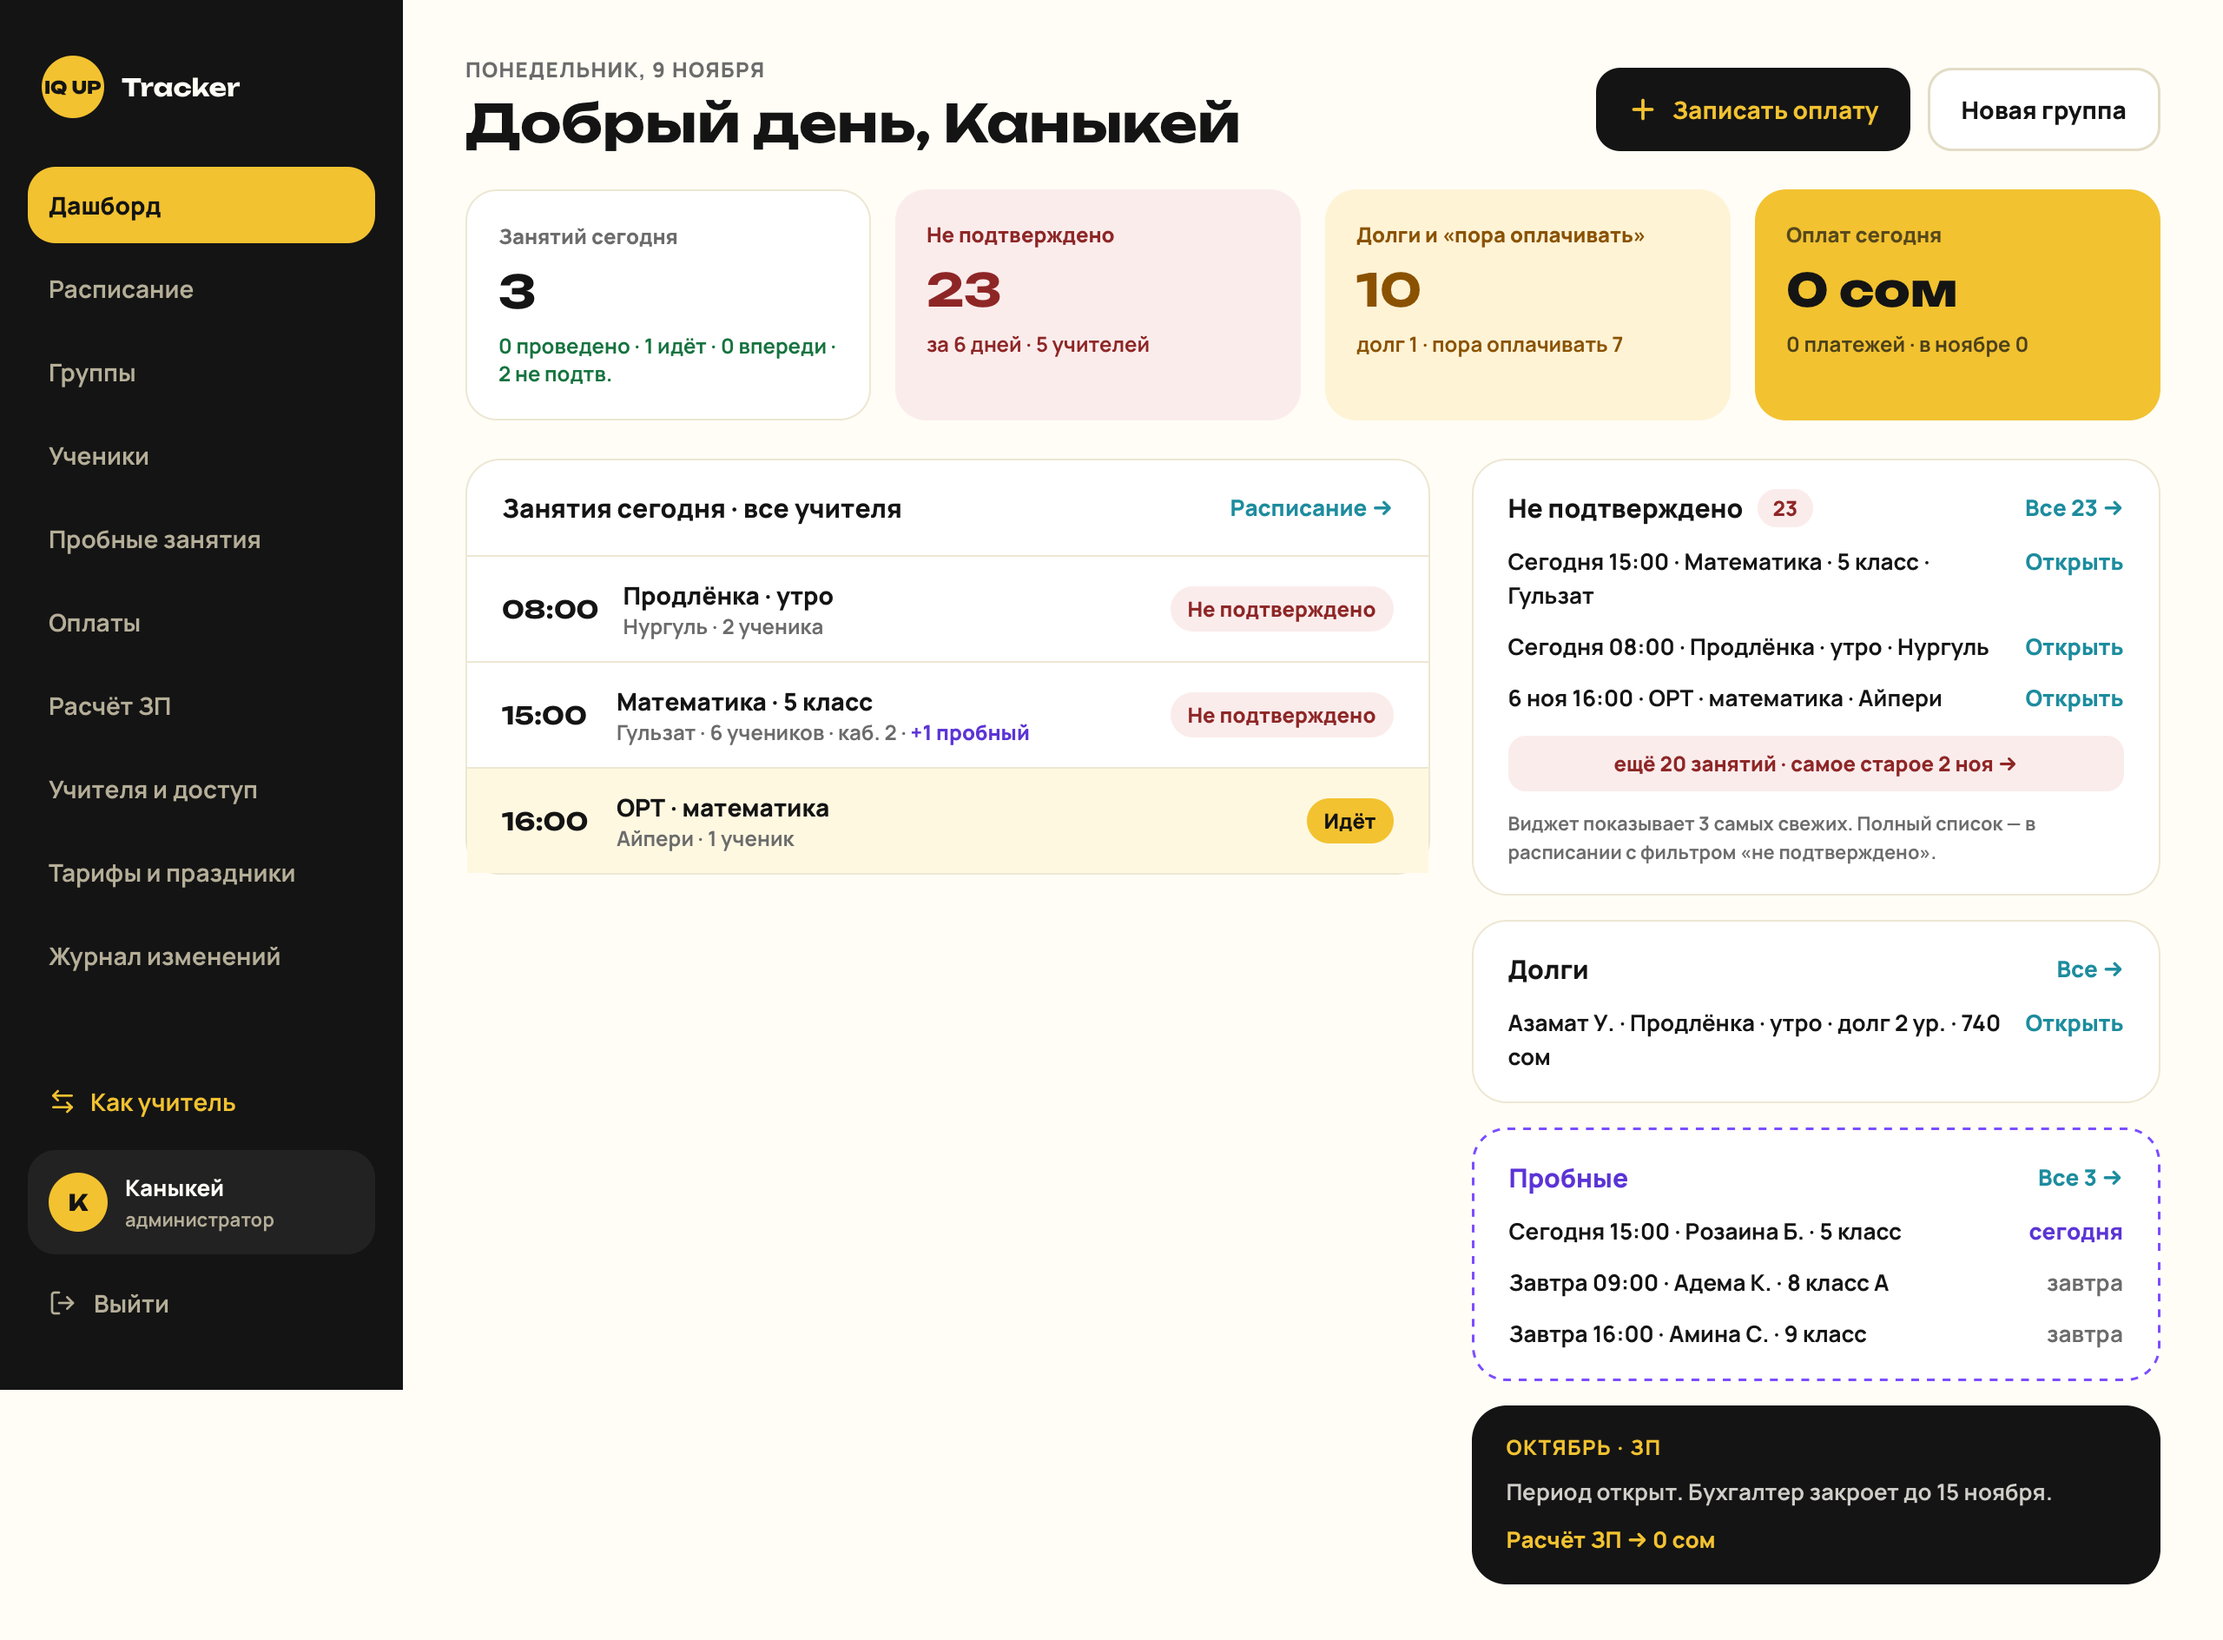
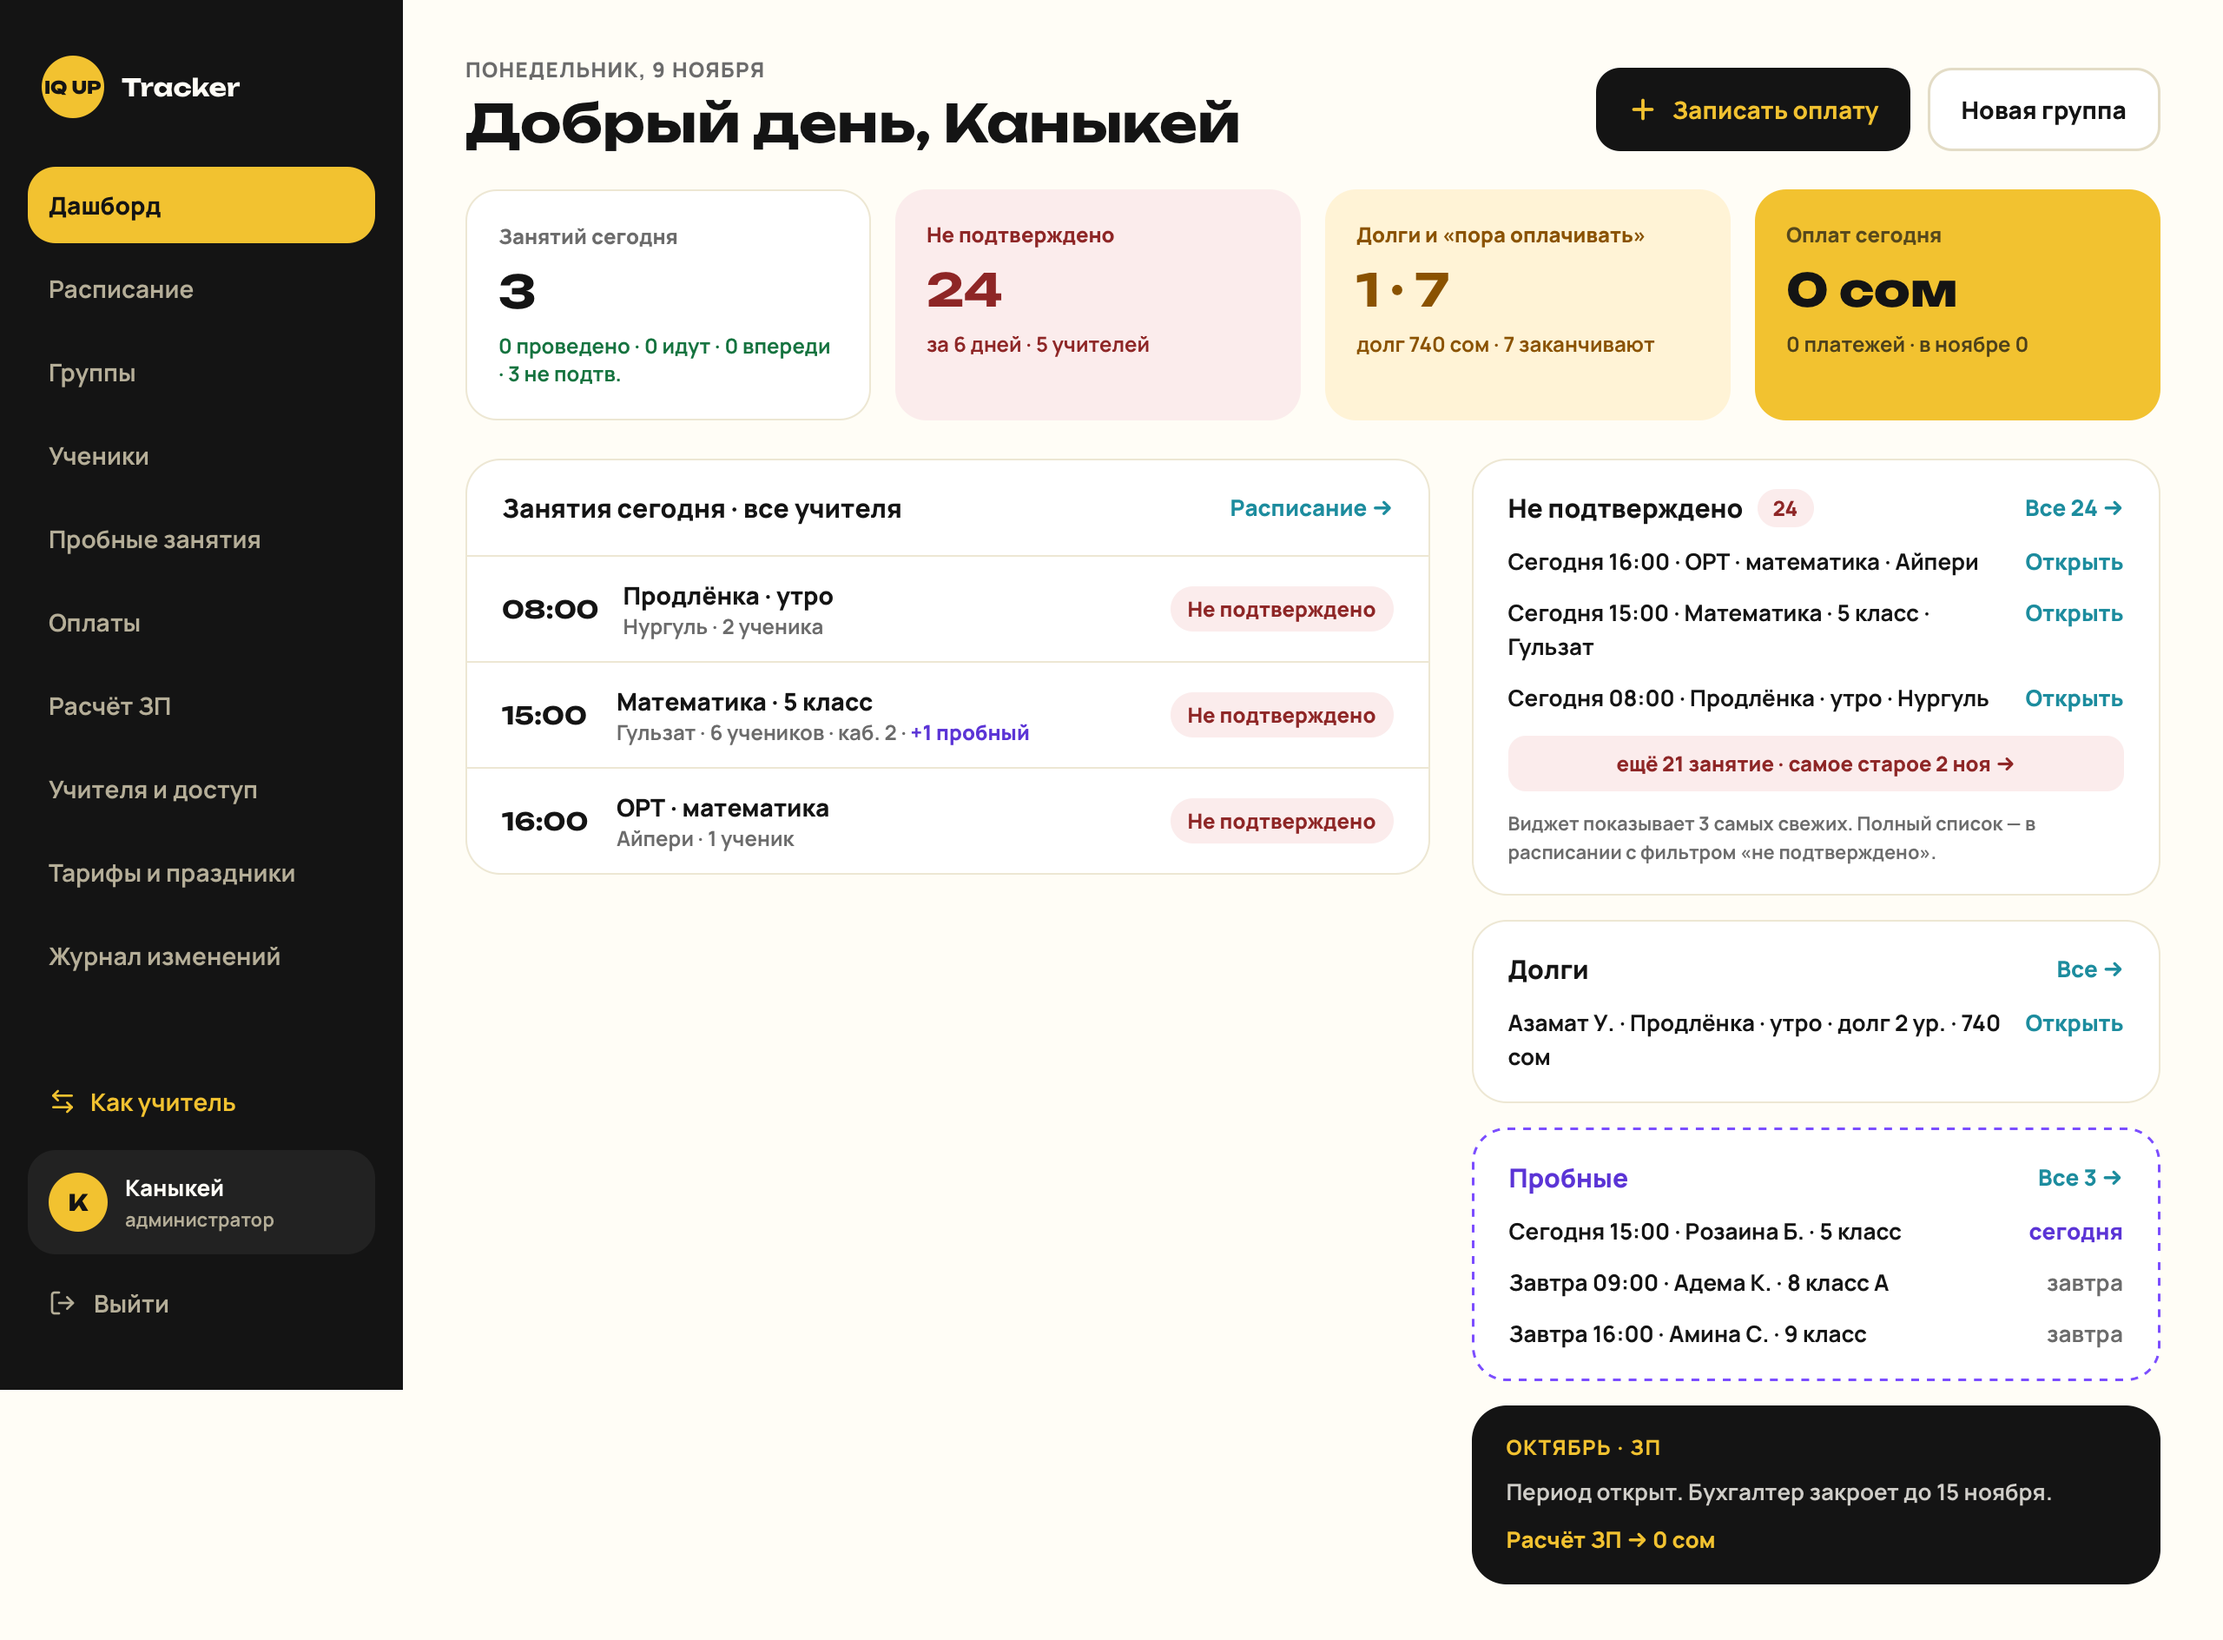
fix(dashboard): плитка долгов по артборду А1 — «должников · заканчивают» (#132)
А1: значение «N · M», подпись «долг X сом · M заканчивают»; АМ1: N и «X сом».

diff --git a/src/features/schedule/dashboard-money.test.ts b/src/features/schedule/dashboard-money.test.ts
@@ -1,12 +1,13 @@
 import { describe, expect, it } from 'vitest'
 import { formatSom } from '@/features/tariffs/model'
 import type { PaymentRow } from '@/features/payments/api'
-import { filterRows, type StudentListRow } from '@/features/students/model'
+import type { StudentListRow } from '@/features/students/model'
 import {
   debtorLine,
   debtorsMore,
   debtSummary,
   debtTileCaption,
+  debtTileValue,
   todayPayments,
   todayPaymentsCaption,
 } from './dashboard-money'
@@ -58,11 +59,11 @@ describe('debtSummary', () => {
     row('f', { status: 'not_enrolled', payState: null, groups: '', groupIds: [] }),
   ]
 
-  it('tile value equals А5 «Не оплатили»', () => {
+  it('tile «должников · заканчивают» (А1)', () => {
     const s = debtSummary(rows)
-    expect(s.unpaid).toBe(filterRows(rows, { pay: 'unpaid' }).length)
-    expect(s).toMatchObject({ unpaid: 4, debt: 2, soon: 1, debtSom: 1334 })
-    expect(debtTileCaption(s)).toBe('долг 2 · пора оплачивать 1')
+    expect(s).toMatchObject({ debt: 2, soon: 1, debtSom: 1334 })
+    expect(debtTileValue(s)).toBe('2 · 1')
+    expect(debtTileCaption(s)).toBe(`долг ${formatSom(1334)} сом · 1 заканчивают`)
   })
 
   it('debtors: biggest first, «и ещё N» over 5', () => {
@@ -72,7 +73,7 @@ describe('debtSummary', () => {
   })
 
   it('empty → zeros', () => {
-    expect(debtSummary([])).toMatchObject({ unpaid: 0, debt: 0, soon: 0, debtSom: 0, debtors: [] })
+    expect(debtSummary([])).toMatchObject({ debt: 0, soon: 0, debtSom: 0, debtors: [] })
   })
 
   it('debtor line', () => {

diff --git a/src/features/schedule/dashboard-money.ts b/src/features/schedule/dashboard-money.ts
@@ -11,8 +11,6 @@ import { formatSom } from '@/features/tariffs/model'
 export const DEBTORS_SHOWN = 5
 
 export interface DebtSummary {
-  /** «Не оплатили» of А5 — the tile value. */
-  unpaid: number
   debt: number
   soon: number
   debtSom: number
@@ -26,7 +24,6 @@ export function debtSummary(rows: readonly StudentListRow[]): DebtSummary {
     .filter((r) => r.payState === 'debt')
     .sort((a, b) => b.debtSom - a.debtSom || a.fullName.localeCompare(b.fullName, 'ru'))
   return {
-    unpaid: counts.unpaid,
     debt: counts.debt,
     soon: counts.soon,
     debtSom: debtors.reduce((t, r) => t + r.debtSom, 0),
@@ -34,9 +31,12 @@ export function debtSummary(rows: readonly StudentListRow[]): DebtSummary {
   }
 }
 
-/** «долг 5 · пора оплачивать 11». */
-export const debtTileCaption = (s: Pick<DebtSummary, 'debt' | 'soon'>) =>
-  `долг ${s.debt} · пора оплачивать ${s.soon}`
+/** А1 value «5 · 11» — debtors · ending soon (payState soon). */
+export const debtTileValue = (s: Pick<DebtSummary, 'debt' | 'soon'>) => `${s.debt} · ${s.soon}`
+
+/** А1 caption «долг 2 933 сом · 11 заканчивают». */
+export const debtTileCaption = (s: Pick<DebtSummary, 'debtSom' | 'soon'>) =>
+  `долг ${formatSom(s.debtSom)} сом · ${s.soon} заканчивают`
 
 /** «Айжан Б. · Математика · 8 класс А · долг 2 ур. · 534 сом». */
 export const debtorLine = (

diff --git a/src/features/schedule/dashboard-page.tsx b/src/features/schedule/dashboard-page.tsx
@@ -54,6 +54,7 @@ import {
   debtorsMore,
   debtSummary,
   debtTileCaption,
+  debtTileValue,
   DEBTORS_SHOWN,
   todayPayments,
   todayPaymentsCaption,
@@ -240,7 +241,7 @@ function DesktopDashboard({
         >
           <span className={tileLabel}>Долги и «пора оплачивать»</span>
           <span className={tileValue} data-testid="kpi-unpaid">
-            {debts ? debts.unpaid : '…'}
+            {debts ? debtTileValue(debts) : '…'}
           </span>
           <span className={tileCaption}>{debts ? debtTileCaption(debts) : ' '}</span>
         </Link>
@@ -485,9 +486,9 @@ function MobileDashboard({
         >
           <span className={mLabel}>Долги</span>
           <span className={mValue} data-testid="kpi-unpaid">
-            {debts ? debts.unpaid : '…'}
+            {debts ? debts.debt : '…'}
           </span>
-          <span className={mCaption}>{debts ? debtTileCaption(debts) : ' '}</span>
+          <span className={mCaption}>{debts ? `${formatSom(debts.debtSom)} сом` : ' '}</span>
         </Link>
         <div className={cn(mTile, 'justify-between bg-brand text-ink')}>
           <Link to="/admin/payments" search={{ tab: 'journal', month }} className="flex flex-col">

diff --git a/tests/e2e/admin-dashboard.spec.ts b/tests/e2e/admin-dashboard.spec.ts
@@ -252,8 +252,8 @@ test('dashboard money (#132): «Долги» = А5 «Не оплатили», «
 }, testInfo) => {
   await login(page, KANYKEI)
   const unpaid = page.getByTestId('kpi-unpaid')
-  await expect(unpaid).toHaveText(/^\d+$/)
-  const n = (await unpaid.textContent()) ?? ''
+  // А1 «должников · заканчивают», АМ1 — должников
+  await expect(unpaid).toHaveText(isDesktop(page) ? /^\d+ · \d+$/ : /^\d+$/)
   await expect(page.getByTestId('kpi-paid-today')).toHaveText(/^\d[\d\s]*( сом)?$/)
   await page.screenshot({
     path: shot(testInfo, 'dashboard-money'),
@@ -263,7 +263,7 @@ test('dashboard money (#132): «Долги» = А5 «Не оплатили», «
 
   await unpaid.click()
   await expect(page).toHaveURL(/\/admin\/students\?pay=unpaid$/)
-  await expect(page.getByRole('button', { name: `Не оплатили · ${n}` })).toHaveAttribute(
+  await expect(page.getByRole('button', { name: /^Не оплатили · \d+$/ })).toHaveAttribute(
     'aria-pressed',
     'true',
   )
